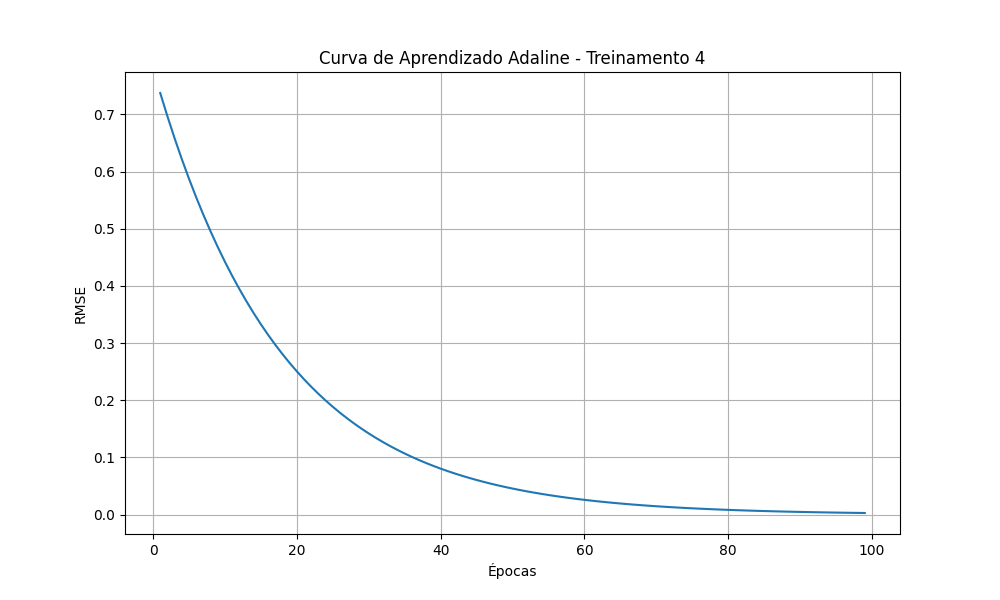
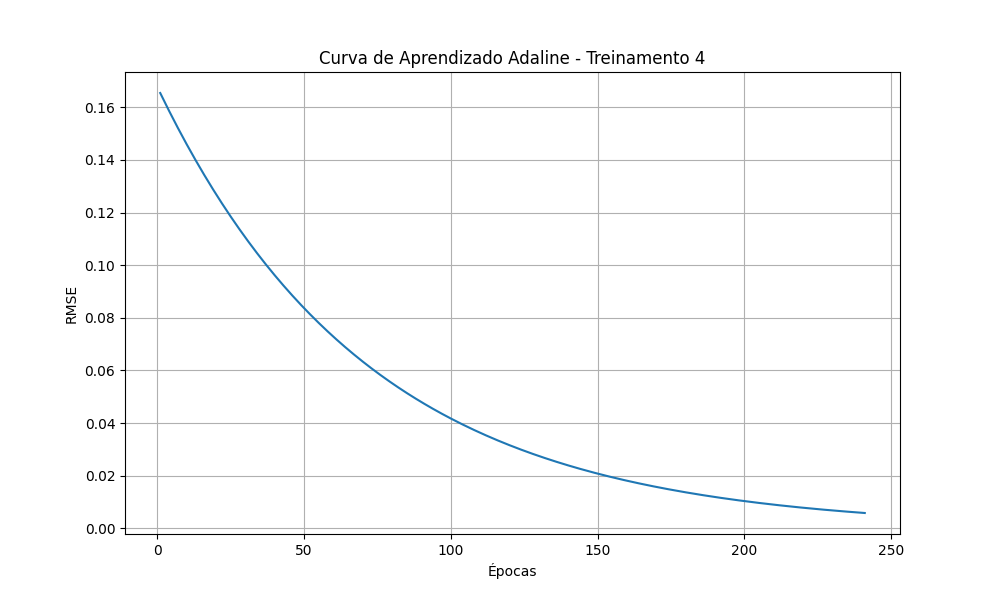
Refactor data processing in Adaline and classification scripts; update learning rate and precision values

diff --git a/classificar.py b/classificar.py
@@ -4,29 +4,19 @@ import os
 PATH = os.path.join(os.getcwd(), './datasets/validacao.xlsx')
 
 def validar(pesos, limiarDeAtivacao, treino):
-    """Fase de operação do Adaline para classificar Válvula A ou B."""
-    
-    # Carrega a planilha a cada chamada para garantir dados frescos
+
     df_validacao = pd.read_excel(PATH)
     
-    # =====================================================================
-    # --- INÍCIO DO TRATAMENTO DE DADOS (PROTEÇÃO CONTRA ERROS NO EXCEL) ---
-    # =====================================================================
-    # Como na validação usamos apenas as entradas para calcular a saída,
-    # tratamos as colunas x1, x2, x3 e x4. A coluna 'd' é tratada nas métricas.
+
     colunas_numericas = ['x1', 'x2', 'x3', 'x4']
     
     for col in colunas_numericas:
         if col in df_validacao.columns:
             # Converte para string, troca vírgula por ponto e força para float
             df_validacao[col] = df_validacao[col].astype(str).str.replace(',', '.').apply(pd.to_numeric, errors='coerce')
-    
-    # Preenche valores que ficaram como NaN com 0 (ou pode usar .dropna() se preferir excluir a linha)
-    # Na validação, excluir linha pode bagunçar a ordem, então preencher com 0 é mais seguro para testes acadêmicos
+
     df_validacao[colunas_numericas] = df_validacao[colunas_numericas].fillna(0)
-    # =====================================================================
-    # --- FIM DO TRATAMENTO DE DADOS ---
-    # =====================================================================
+
 
     # Inicializa a coluna de resultados para o treinamento atual
     df_validacao[f'Y_T{treino}'] = pd.NA 

diff --git a/adaline.py b/adaline.py
@@ -23,21 +23,15 @@ df_resultados = pd.read_excel(RESULTADOS_PATH)
 colunas_numericas = ['x1', 'x2', 'x3', 'x4', 'd']
 
 for col in colunas_numericas:
-    # 1. Transforma tudo em texto (string)
-    # 2. Troca vírgulas por pontos (para o Python entender os decimais)
-    # 3. Força a conversão para número numérico. 
-    # O "errors='coerce'" transforma qualquer letra intrusa (como aquele "S") em NaN (dado inválido/vazio)
     df_treinamento[col] = df_treinamento[col].astype(str).str.replace(',', '.').apply(pd.to_numeric, errors='coerce')
 
 # Remove qualquer linha inteira que tenha ficado com NaN (exclui a linha com defeito)
 df_treinamento = df_treinamento.dropna()
-# =====================================================================
-# --- FIM DO TRATAMENTO DE DADOS ---
-# =====================================================================
+
 
 treinamento = 1
-taxaDeAprendizagem = 0.01 # Definida cautelosamente para evitar instabilidade 
-precisao = 1e-6 # Precisão requerida (epsilon)
+taxaDeAprendizagem = 0.0025 
+precisao = 1e-6
 
 resultados.limpar(df_resultados)
 
